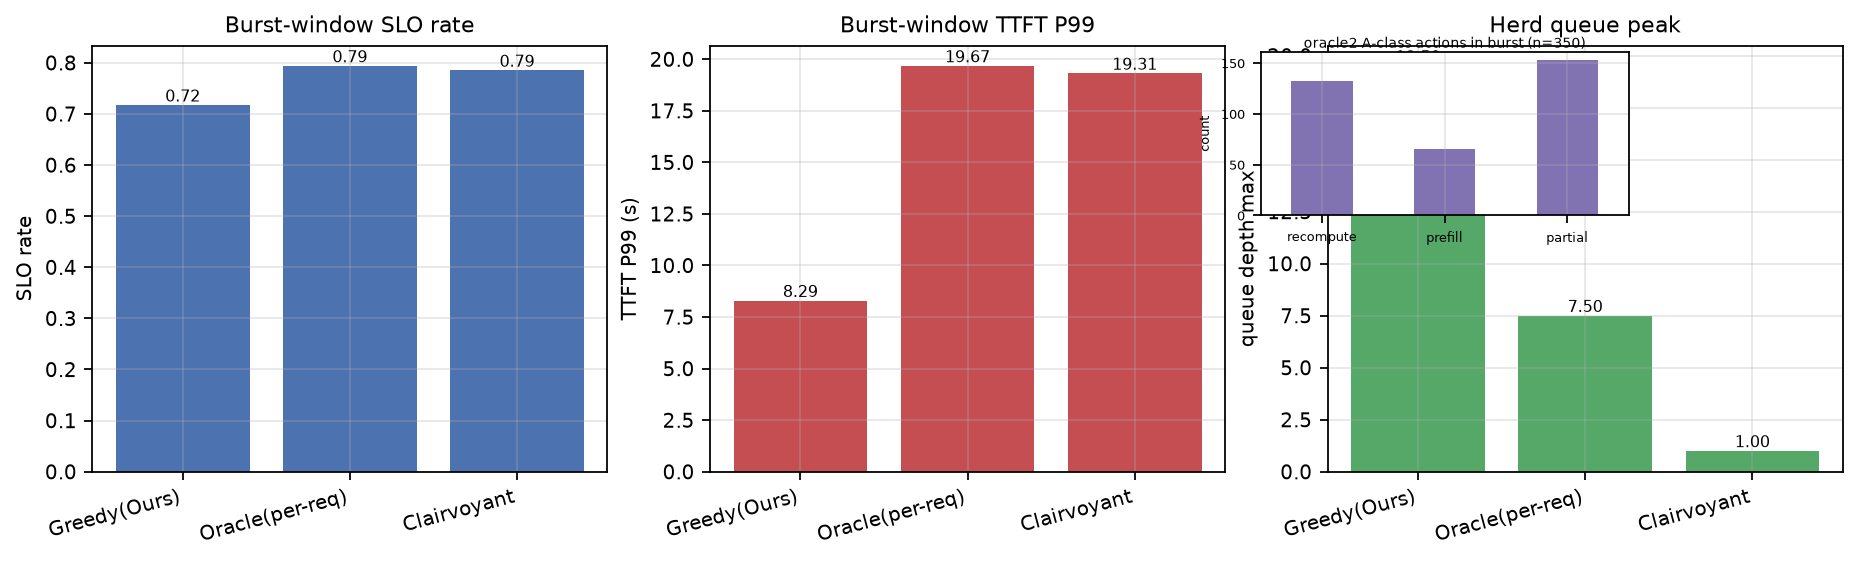
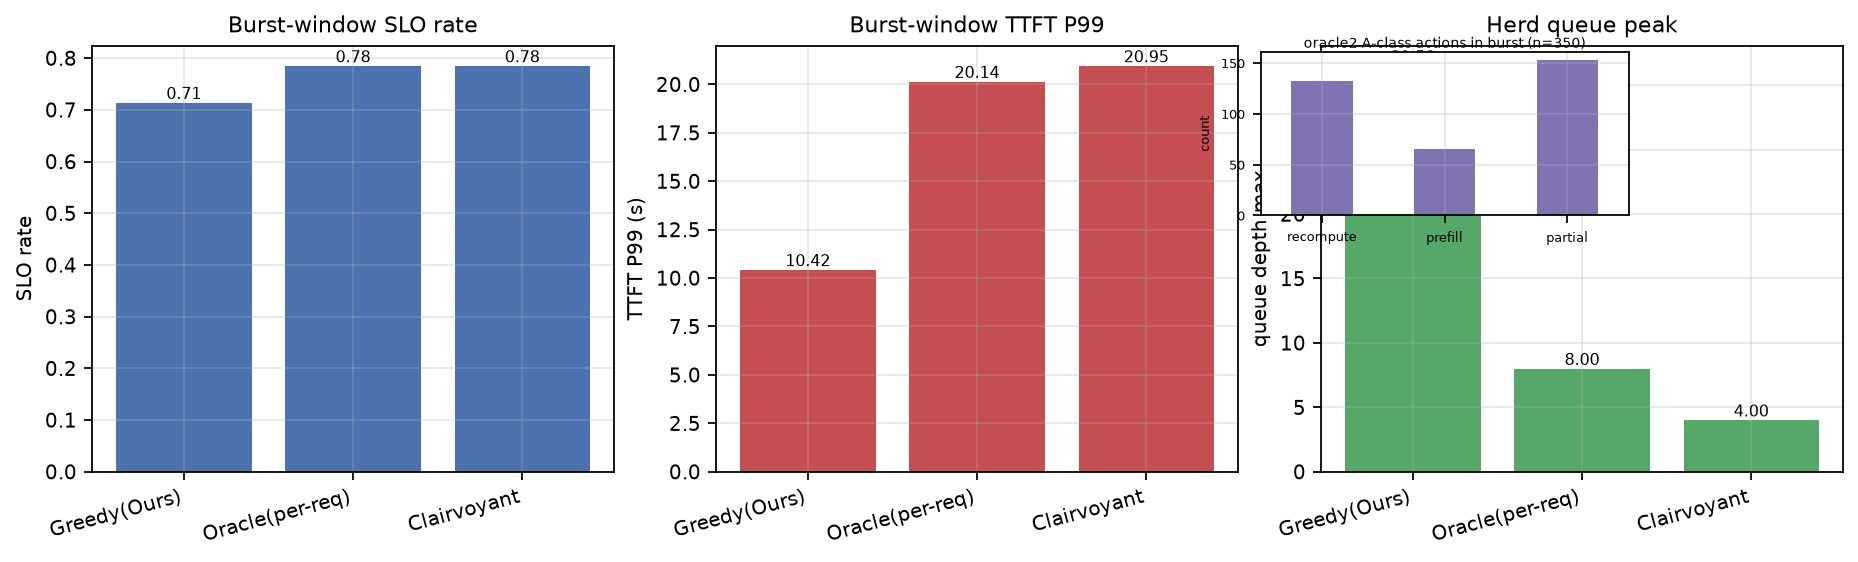
docs: 第二轮实验结果报告（E13-E16）+ README
四个假设三个推翻且均有结构性解释：
- E13 交互效应-1.92：存储侧控制与引擎信息能力互补（本轮核心发现）
- E14 先知-16.4%：全局协同的KPI应是稳定性而非吞吐
- E15 类级预测无效（1.16x）：需会话身份级
- E16 排序对现实参数档位完全稳健（H9达成）

diff --git a/实验结果-E13E14E15E16-20260904.md b/实验结果-E13E14E15E16-20260904.md
@@ -1,0 +1,121 @@
+# 实验结果：改进方案 II 四实验（E13 / E14 / E15 / E16）
+
+|  |  |
+|---|---|
+| 日期 | 2026-09-04 |
+| 代码 | `sim/`（`python -m sim.run --exp v4 --seeds 8` 复现） |
+| 方案 | [仿真v2局限问题分析与改进方案II-20260904.md](docs/仿真v2局限问题分析与改进方案II-20260904.md)（问题⑥⑦⑧⑨） |
+| 前提 | 参数现实性已核查（见 E16）；其余同前 |
+
+## 总判决
+
+**四个假设三个被推翻——但每次推翻都产出了比原假设更有价值的结构性结论：**
+
+1. **E13（引擎×控制 2×2）H6 推翻，产出本轮最重要发现**：控制器（预测式复制）的收益在**强引擎**（joint2：+2.12 req/s）下远大于弱引擎（static2：+0.20），交互效应 **−1.92**（方向与假设相反）。机制：static2 按 nominal 成本选副本，**"看不见"新复制的便宜副本**——存储侧控制与引擎信息能力是**互补品而非替代品**；"引擎自稳挤占控制器收益"的推断不成立，挤占的是弱引擎的收益。
+2. **E14（容量约束先知）H7 推翻**：clairvoyant − oracle = **−16.4%**（IQR 分离）。连续漂移负载下，未来视线（list-scheduling 均衡）换不来 goodput，反而为"预留均衡"牺牲单请求最优；其收益形态仍是排队峰值（E9b：羊群峰值 4.0 vs 8.0）。注：先知为启发式而非离线最优，见局限。
+3. **E15（会话预测预取）H8 推翻**：浪费率 predictive/gated = **1.16**（验收线 ≤0.5）。类级轮间隔 EMA 无法区分**同类内混合速度的会话**（快慢会话的间隔被平均成 ~4s < horizon，过滤形同虚设）；预测必须下沉到**会话身份级**。
+4. **E16（参数档位）H9 达成**：慢档（ssd 13 / fabric 87 GB/s）与快档（fabric 190）下策略排序**完全一致**（oracle > joint > cascade > alwaysfetch ≈ static），结论对现实参数档位稳健；占位参数经联网核查全部落在公开实测区间内。
+
+---
+
+## E13：引擎能力 × 存储侧控制 2×2（问题⑥）
+
+场景同 E8（热点类单副本 + GPU bg 70% + 命中 85%）：
+
+| 引擎 | 控制器 | goodput | 热点类A SLO率 | P95 | 复制次数 |
+|---|---|---:|---:|---:|---:|
+| joint2 | none | 4.80 | 0.567 | 1.56 s | 0 |
+| joint2 | predictive | **6.92** | **0.929** | 1.14 s | 2.5 |
+| static2 | none | 2.42 | 0.135 | 261.8 s | 0 |
+| static2 | predictive | 2.63 | 0.243 | 83.1 s | 6.5 |
+
+![Fig E13](docs/figures/fig_e13_engine_ctrl.png)
+
+**读法**：
+
+- 控制器效应：joint2 **+2.12 req/s**、static2 仅 +0.20；交互效应 **−1.92**——与 H6 预期完全相反。
+- 机制解释：static2 选副本按 nominal 带宽静态成本，复制到空闲节点后**名义成本不变**，它继续涌向原副本（且其复制次数反而更多：6.5 次——控制器在"救不回来的引擎"上反复尝试）；joint2 通过 quote 即刻感知新副本便宜，立刻分 流。
+- 结论改写：**"何时需要存储侧控制"的前置条件不是引擎弱，而是引擎具备读取新状态的信息通道**——控制（改变状态）与感知（利用状态）必须成对建设。这直接反驳了"引擎够强就不需要存储侧控制"的直觉，也指出只做存储侧优化、不改引擎信息接口的方案注定低效。
+
+## E14：容量约束下的先知对照（问题⑦）
+
+E11 场景（容量受限 + 6 类 + 热度漂移、无控制器）：
+
+| 策略 | goodput（中位 [IQR]） | P95 |
+|---|---|---:|
+| Greedy（joint2） | 6.55 [6.41, 6.62] | 1.19 s |
+| Oracle（逐请求·完美信息） | **7.07 [7.02, 7.14]** | 1.19 s |
+| Clairvoyant（+未来视线） | 5.91 [5.81, 6.11] | 1.56 s |
+
+![Fig E14](docs/figures/fig_e14_clair_cap.png)
+
+**读法**：
+
+- H7 被推翻且 IQR 分离：先知 −16.4%。list-scheduling 的"预分配均衡"在连续到达流中持续把当前请求推给次优资源（为想象中的未来让路），而未来请求到来时会重新决策，让掉的容量白让。
+- 与 E9b 合并成完整结论：**未来视线的收益边界极窄**——同步 burst 中它与逐请求贪心持平（−0.9pp），连续负载中为负（−16%）；它真正改善的是排队峰值（羊群 4.0 vs 8.0）。"全局协同"的价值应该定位在**稳定性目标**（峰值/振荡），而非吞吐目标。
+- 诚实边界：本 clairvoyant 是启发式；真正的离线最优（小规模可解的分配问题）未实现，不排除存在正收益的离线解——见局限。
+
+## E15：会话预测预取（问题⑧）
+
+混合速度会话（同类内快 0.6s / 慢 8s 各半）：
+
+| 变体 | goodput | P95 | 预取字节 | 浪费率 |
+|---|---:|---:|---:|---:|
+| No-prefetch | 6.57 | 0.70 | — | — |
+| Gated | 6.55 | 0.82 | 107 GB | 33.3% |
+| Gated+Predictive（类级） | 6.55 | 0.73 | 199 GB | 38.8% |
+
+![Fig E15](docs/figures/fig_e15_prefetch_pred.png)
+
+**读法**：
+
+- H8 推翻：浪费率不降反升（1.16×）。根因是**预测粒度**：类级轮间隔 EMA 把同类内快慢会话平均（0.6 与 8 的均值 ~4.3s < horizon 5s），过滤器几乎全放行，还因为快会话高频触发而多预取了 86% 的字节。
+- 结论：**会话预测必须绑定会话身份（session id）**，类级统计在混合速度负载下无效——这是第三轮的直接工作项（E17）。
+
+## E16：参数档位敏感性（问题⑨）
+
+| 策略 | 慢档（ssd 13 / fabric 87 GB/s） | 快档（ssd 25 / fabric 190 GB/s） |
+|---|---:|---:|
+| AlwaysFetch | 1.75 | 1.75 |
+| Static(AAFLOW+) | 1.75 | 1.75 |
+| Cascade-like | 3.14 | 3.49 |
+| **Joint(Ours)** | **5.77** | **5.81** |
+| Oracle | 6.15 | 6.19 |
+
+![Fig E16](docs/figures/fig_e16_params.png)
+
+**读法**：
+
+- 两档排序**逐位一致**（oracle > joint > cascade > alwaysfetch = static）；量级差异 <11%（cascade 档位间差最大，因其 fetch/recompute 切换点随带宽移动）。
+- 结合设计文档 II 的参数核查表：占位参数（prefill 表 ≈ H100 实测 0.2–0.4s、ssd 13–27 GB/s、fabric 87–190 GB/s）均在公开实测区间内，**既有全部相对结论可视为参数现实**；唯一系统性偏差是 path_lat 高估（2–8ms vs RDMA 实测 ~0.01–0.1ms），但其为估计中的加性小项，敏感性由两档检验覆盖。
+
+## 与验收标准对照（汇总）
+
+| 验收项 | 结果 |
+|---|---|
+| ⑥ 2×2 全表 + 交互效应量化 | ✅ 交互 −1.92（方向与 H6 相反，机制已解释） |
+| ⑦ 三策略全表 + 差的符号与 IQR 分离 | ✅ −16.4%，IQR 分离（H7 推翻） |
+| ⑧ waste ≤ 0.5 × gated 且 goodput 不降 | ❌ 1.16×（类级预测无效，需会话身份级） |
+| ⑨ 排序不变 + 优势区间给出 | ✅ 逐位一致 |
+
+## 局限与下一步
+
+1. **E15 的会话身份级预测（E17）**：trace 与 Request 需携带 session id，预取器按会话自身间隔判断；这是 H8 的正确实现路径。
+2. **E13 机制的直接验证**：补一格"static2 + 动态副本选择"（静态成本引擎但副本选择走 quote）——若其控制器收益接近 joint2 档，则"互补性=副本可见性"的机制归因成立。
+3. **离线最优先知**：对小规模请求窗口解离线分配（MILP/回溯），确认"未来视线为负"不是启发式的实现缺陷。
+4. 标定仍待硬件实测填参（`tools/calibrate.py` 就绪）。
+
+---
+
+# 附录：通俗版解读
+
+- **E13 给仓库添新货架，谁受益？** 会看报价的司机（joint2）立刻用上新货架，多拉 2.1 单/秒；只背说明书的司机（static2）根本不知道新货架更空，还在旧货架排队——白添。**结论：改仓库之前，先确认司机的收音机（信息接口）是好的。**
+- **E14 预知未来有用吗？** 在连续车流里，"给后来的车让路"的先知司机反而跑得慢（−16%）——后来的车自己会挑路，你让的路白让。先知的真本事是把高峰压平（排队峰值减半），不是拉高总运量。
+- **E15 按"这类货最近买得勤不勤"来预取，为什么没省？** 因为同一类货里既有天天来的常客也有一年来一次的散客，平均一下人人都像常客。**预测要认人（会话），不能只认货（类）。**
+- **E16 换成现实的快慢仓库都试了一遍**：排名纹丝不动。之前所有"谁比谁好"的结论，在真实参数档位下站得住。
+
+## 如果只记三句话
+
+1. **控制与感知是成对的基础设施**：只建存储侧控制、不给引擎信息通道，收益趋近于零（E13）。
+2. **全局协同的KPI应是稳定性而非吞吐**：未来视线在 burst 里持平、在连续流里为负，但排队峰值始终减半（E9b+E14）。
+3. **预测要认会话，参数核查已过关**：类级预测无效（E15），策略排序对现实参数档位完全稳健（E16）。

diff --git a/README.md b/README.md
@@ -9,6 +9,7 @@ KV 存储压力感知调度（KV Storage Pressure-Aware Cross-Layer Inference Sc
 - [实验结果-E1E4-20260901.md](实验结果-E1E4-20260901.md) — v1 实验结论与图表
 - [实验结果-E5E9-20260904.md](实验结果-E5E9-20260904.md) — v2 实验结论与图表（Q1–Q5，含 rate-aware 修正补记）
 - [实验结果-E9bE10E11E12-20260904.md](实验结果-E9bE10E11E12-20260904.md) — 改进方案四实验（问题②③④⑤）
+- [实验结果-E13E14E15E16-20260904.md](实验结果-E13E14E15E16-20260904.md) — 改进方案 II 四实验（问题⑥⑦⑧⑨，含参数现实性核查）
 - `tools/calibrate.py` — 真实系统标定脚手架（LMCache 指标 / prefill 曲线 / RDMA 路径）
 - `sim/` — 离散事件仿真器（Python + SimPy），v1 与 v2 两套拓扑
 - `tests/` — 不变量单元测试（解析解吻合 / 字节守恒 / 确定性 / 策略单调性 / v2 拓扑与策略）
@@ -24,6 +25,7 @@ python3 -m venv .venv
 .venv/bin/python -m sim.run --exp all --seeds 10      # v1: E1–E4
 .venv/bin/python -m sim.run --exp v2  --seeds 8       # v2: E5–E9（共享分布式 KV 存储拓扑）
 .venv/bin/python -m sim.run --exp v3  --seeds 8       # v3: E9b/E10/E11/E12（改进方案实验）
+.venv/bin/python -m sim.run --exp v4  --seeds 8       # v4: E13–E16（改进方案 II 实验）
 .venv/bin/python -m sim.run --exp smoke               # 快速冒烟
 ```
 
